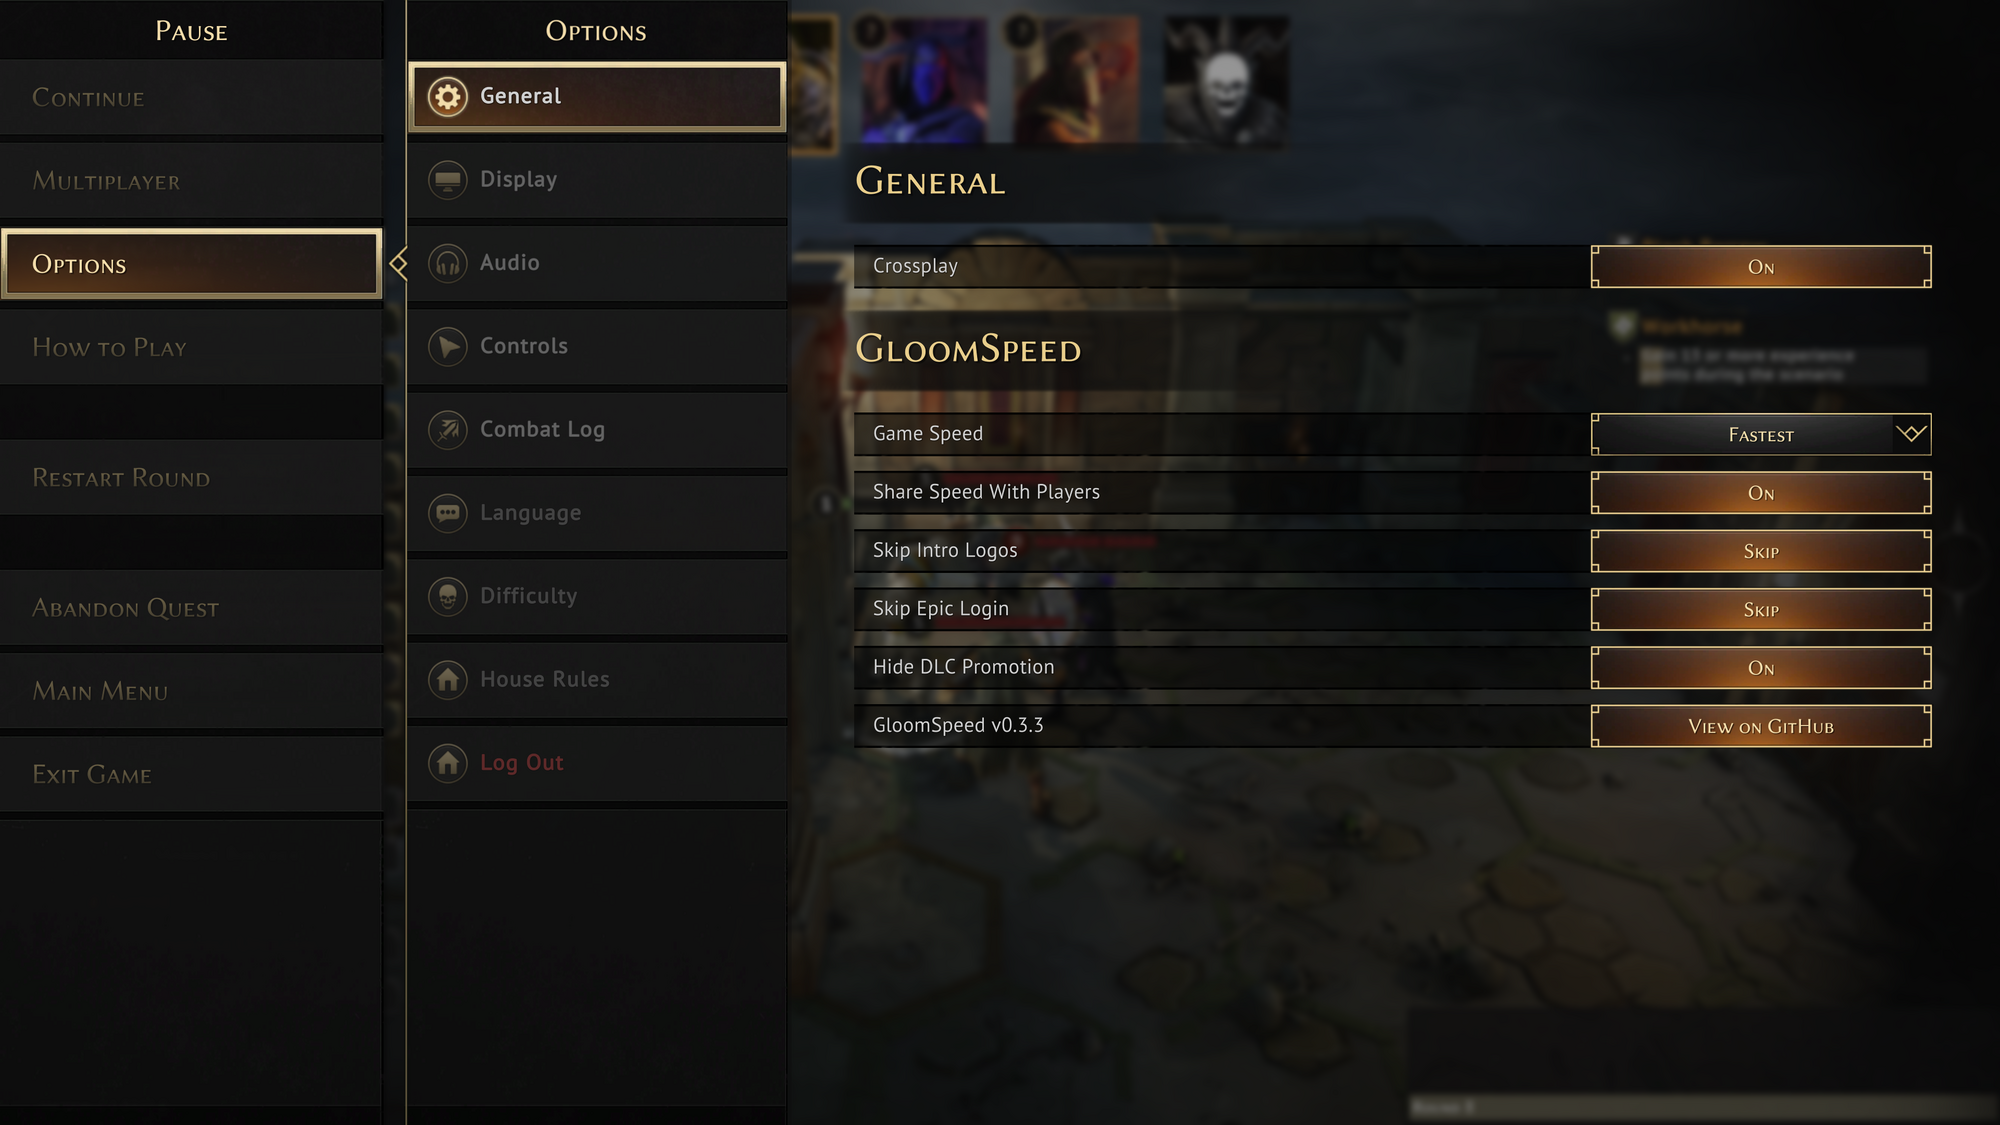
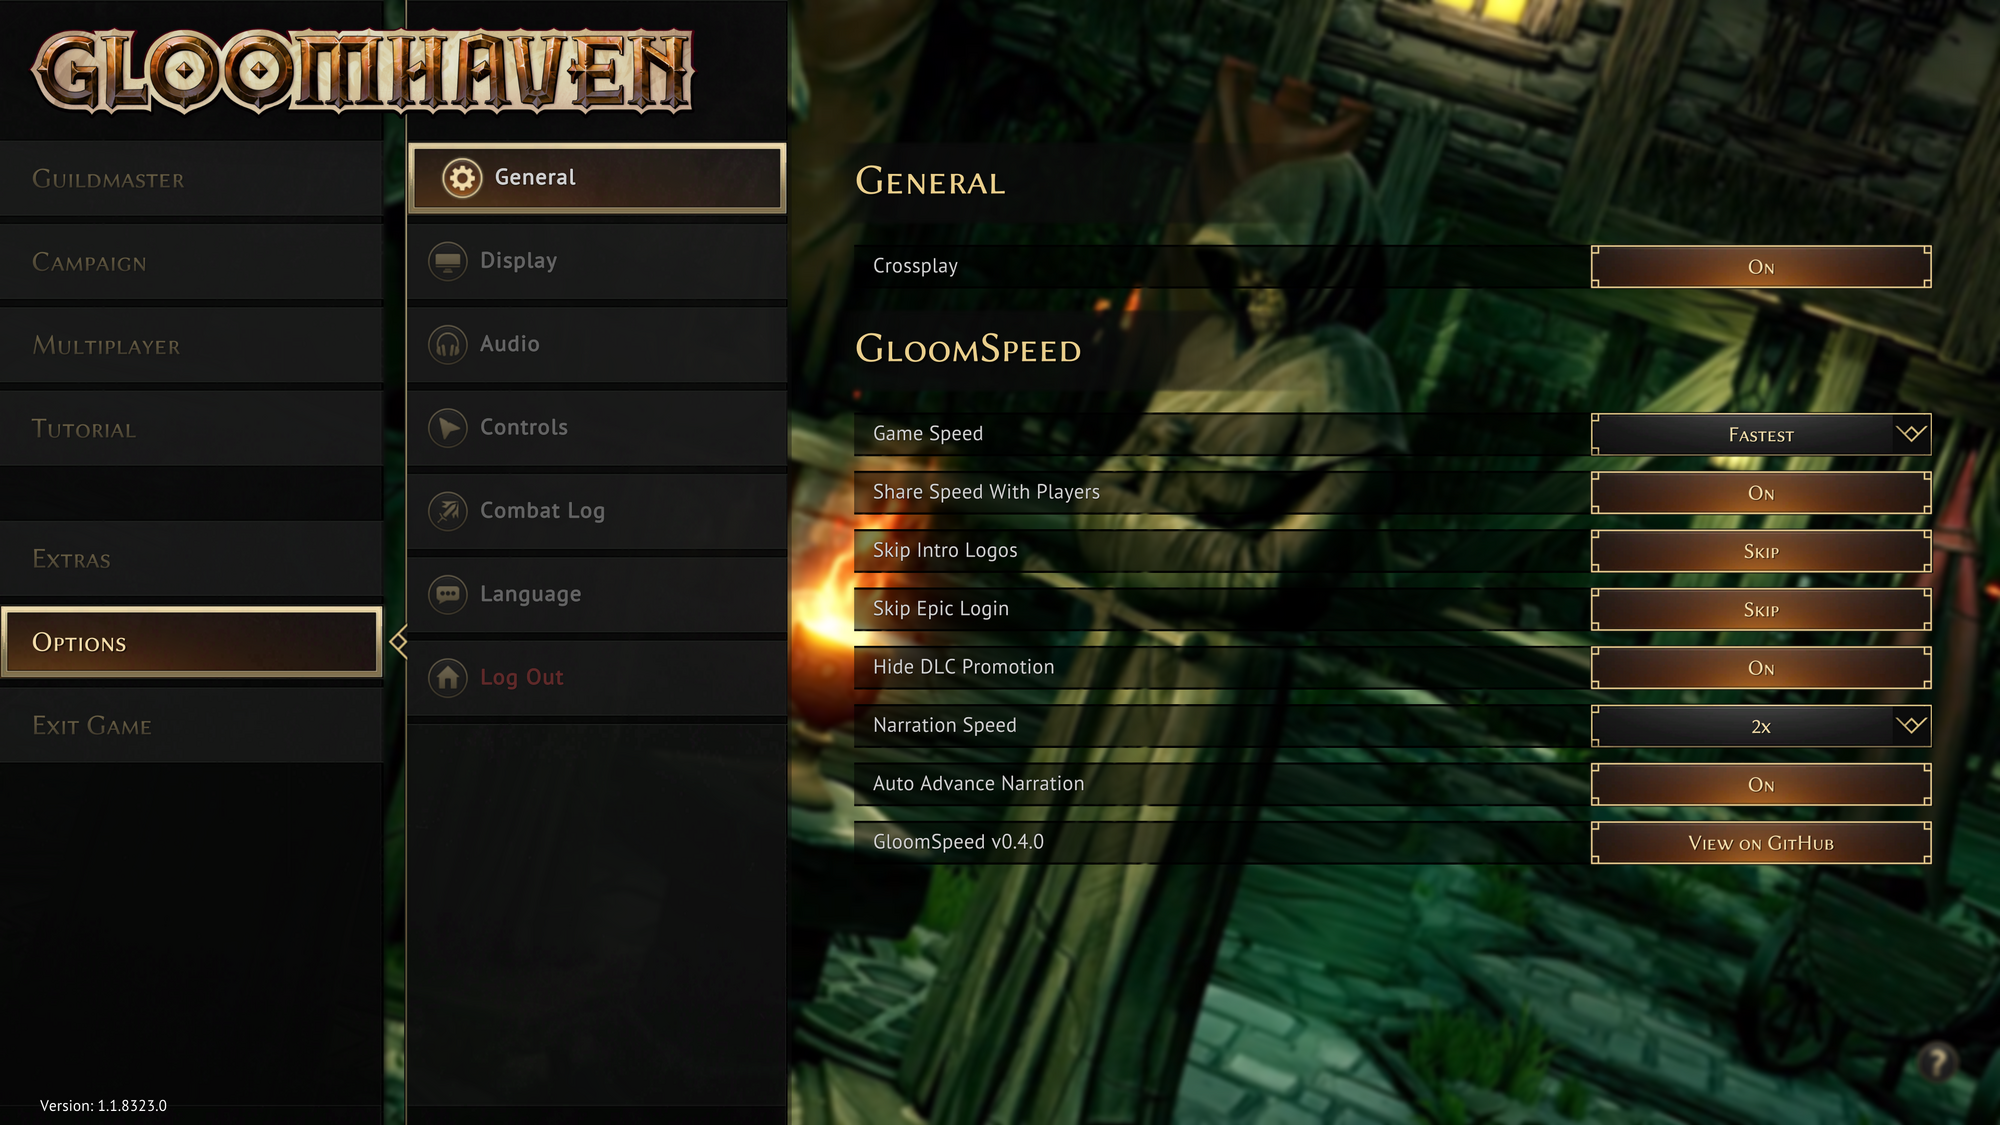
Release 0.4.0: narration speed and auto advance

diff --git a/mod/GloomSpeed/src/Plugin.cs b/mod/GloomSpeed/src/Plugin.cs
@@ -14,7 +14,7 @@ namespace GloomSpeed
     public sealed class Plugin : BaseUnityPlugin
     {
         public const string Guid = "com.kez.gloomspeed";
-        public const string Version = "0.3.5";
+        public const string Version = "0.4.0";
         public const string RepoUrl = "https://github.com/dan-kez/gloomspeed";
 
         internal static ManualLogSource Log;

diff --git a/README.md b/README.md
@@ -10,13 +10,13 @@ A BepInEx mod that shortens presentation delays in Gloomhaven (Steam, Unity 2021
 
 ## Install
 
-Download the installer for your computer:
+Download the installer for your computer from the **[latest release](https://github.com/dan-kez/gloomspeed/releases/latest)**. These are the files for 0.4.0:
 
 | Your computer | Download |
 |---|---|
-| **Mac** | [`GloomSpeed-0.3.5-Install-macOS.zip`](https://github.com/dan-kez/gloomspeed/releases/download/v0.3.5/GloomSpeed-0.3.5-Install-macOS.zip) |
-| **Windows** | [`GloomSpeed-0.3.5-Install-Windows.zip`](https://github.com/dan-kez/gloomspeed/releases/download/v0.3.5/GloomSpeed-0.3.5-Install-Windows.zip) |
-| **Linux (Steam with Proton)** | [`GloomSpeed-0.3.5-Install-Linux.zip`](https://github.com/dan-kez/gloomspeed/releases/download/v0.3.5/GloomSpeed-0.3.5-Install-Linux.zip) |
+| **Mac** | [`GloomSpeed-0.4.0-Install-macOS.zip`](https://github.com/dan-kez/gloomspeed/releases/download/v0.4.0/GloomSpeed-0.4.0-Install-macOS.zip) |
+| **Windows** | [`GloomSpeed-0.4.0-Install-Windows.zip`](https://github.com/dan-kez/gloomspeed/releases/download/v0.4.0/GloomSpeed-0.4.0-Install-Windows.zip) |
+| **Linux (Steam with Proton)** | [`GloomSpeed-0.4.0-Install-Linux.zip`](https://github.com/dan-kez/gloomspeed/releases/download/v0.4.0/GloomSpeed-0.4.0-Install-Linux.zip) |
 
 Unzip it and double-click the installer inside. **[The install guide](INSTALL.md) walks through every step** and assumes you've never installed a mod. Your computer may show a security warning the first time, and the guide covers what to click. On a Mac you also paste one line into Steam, and the installer copies it for you. If you'd rather not run a script, the guide also covers [installing by hand](INSTALL.md#install-by-hand).
 
@@ -39,6 +39,12 @@ In the game, under **Options > General**:
 | **Hide DLC Promotion** | Hides the DLC advert at the top right of the main menu. Off by default. |
 | **Narration Speed** | Plays story narration from 0.75x to 2x, keeping the voice at its normal pitch. 1x by default. |
 | **Auto Advance Narration** | Moves to the next narrated line when the voice finishes, without a click. Off by default. |
+
+### Faster narration
+
+Story narration can play from **0.75x to 2x** speed, with the voice kept at its normal pitch, so it sounds like the same narrator talking faster, not a chipmunk. **Auto Advance Narration** moves on to the next line as soon as the voice finishes, so you can sit back and let the story play. Both are in **Options > General**, and only affect your own game.
+
+![The Narration Speed dropdown, from 0.75x to 2x](docs/media/narration-speed.png)
 
 During multiplayer:
 
